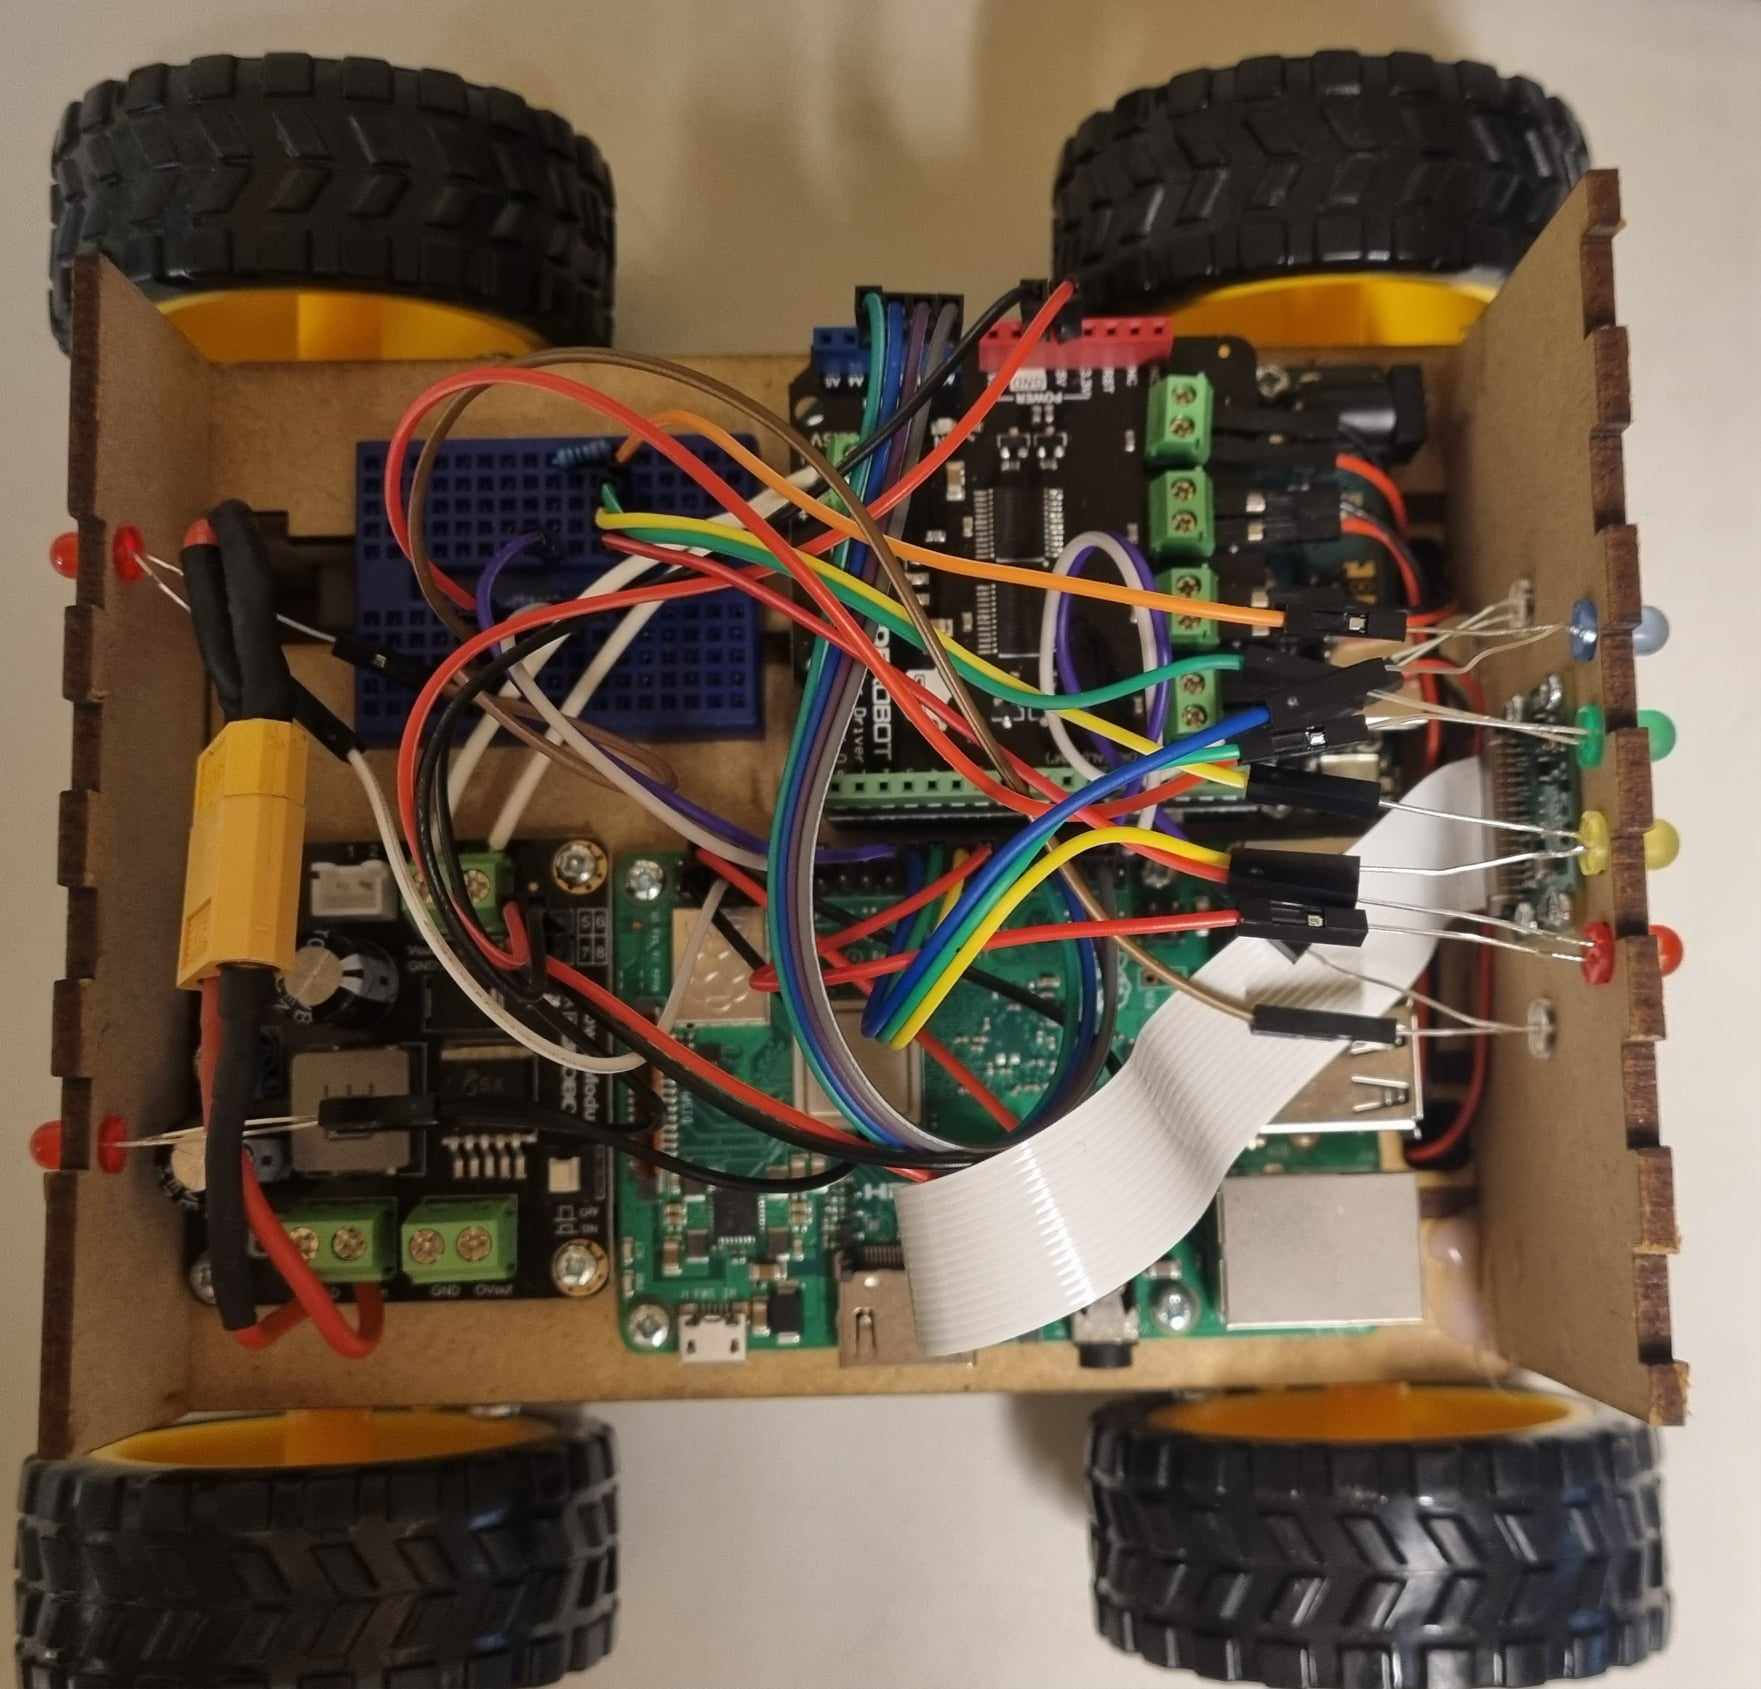
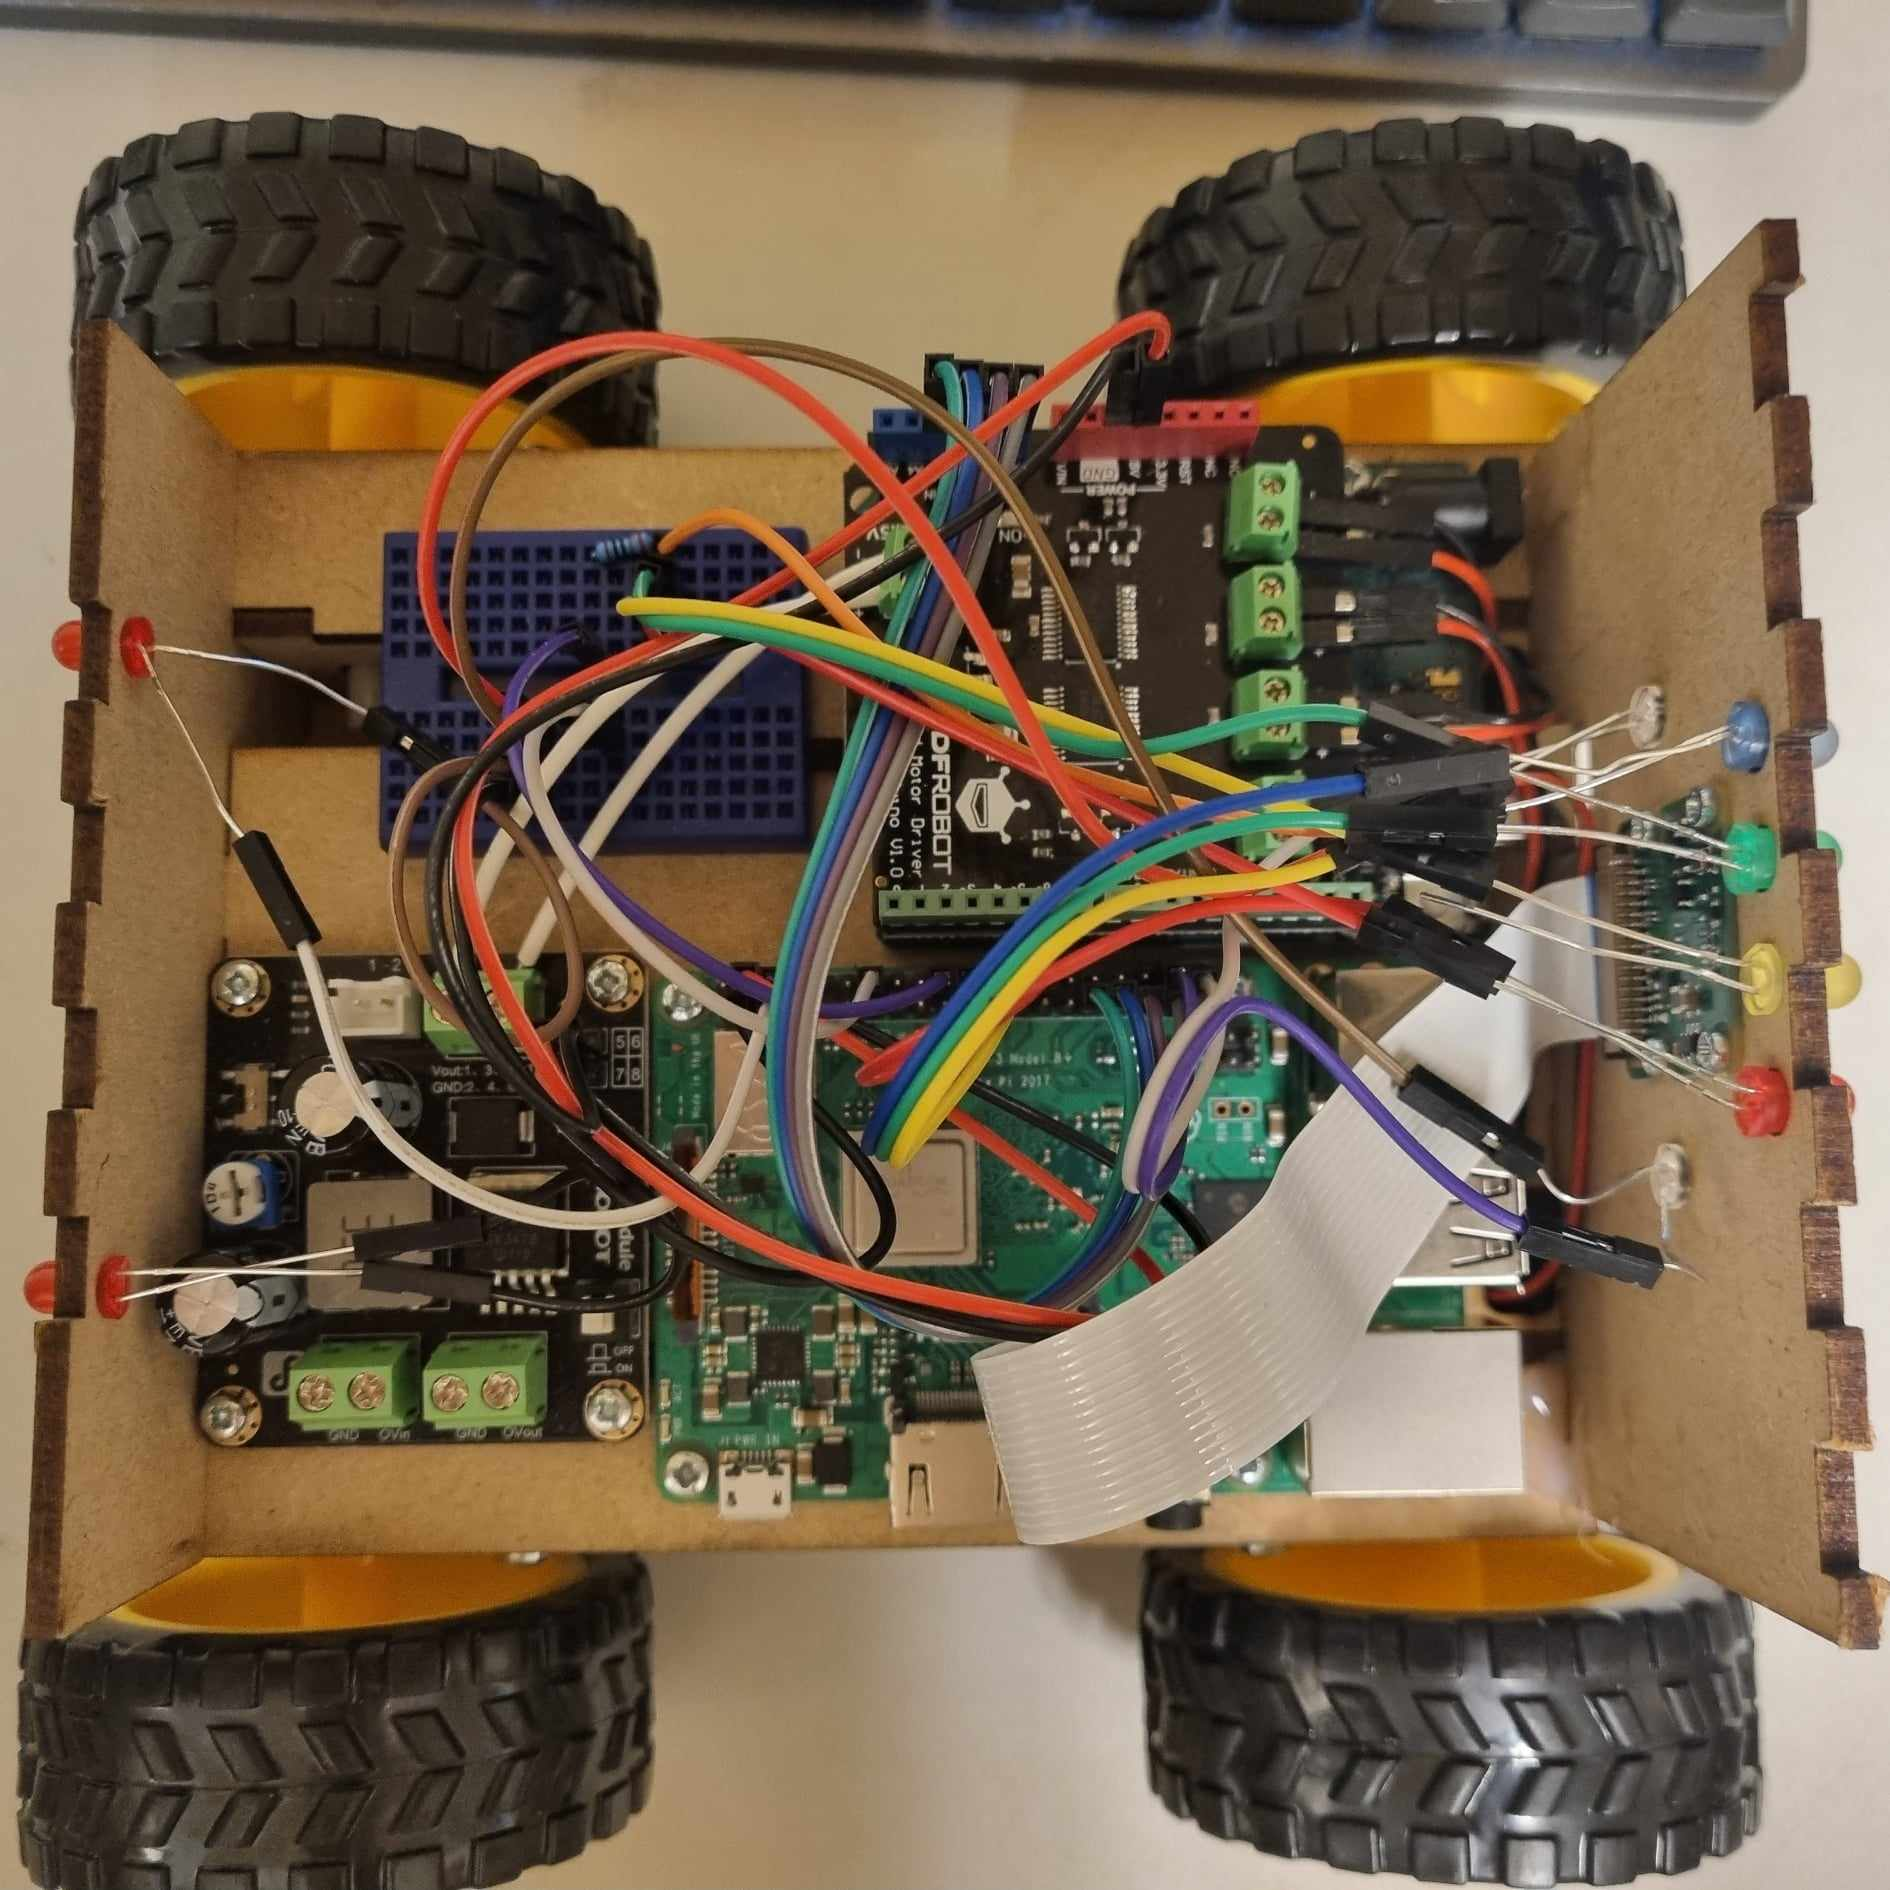
d

diff --git a/README.md b/README.md
@@ -294,8 +294,6 @@ Illustrasjonen over viser et forslg til hvordan en ferdig krets kan se ut. Bilde
 
 ### Steg 11: Kontroll og kobling av batteri
 
-Nå
-
 Batterikonnektor til spenningsregulator kobles opp som vist under.
 
 <p align="center">
@@ -308,10 +306,10 @@ NB: Her er det to viktige ting å passe på. Pass på at skruene som holder kret
 
 <p align="center">
   <img src="Media/teknobil/22.jpg" height="300" />
-  <img src="Media/teknobil/21.jpg" width="500" />
+  <img src="Media/teknobil/batteri_connection.jpg" width="500" />
 </p>
 
-### Steg 11: Montering av bakplate og topplokk
+### Steg 112: Montering av bakplate og topplokk
 
 Fest bakplaten og sett på topplokket. Bilen skal nå se ut som vist under.
 
